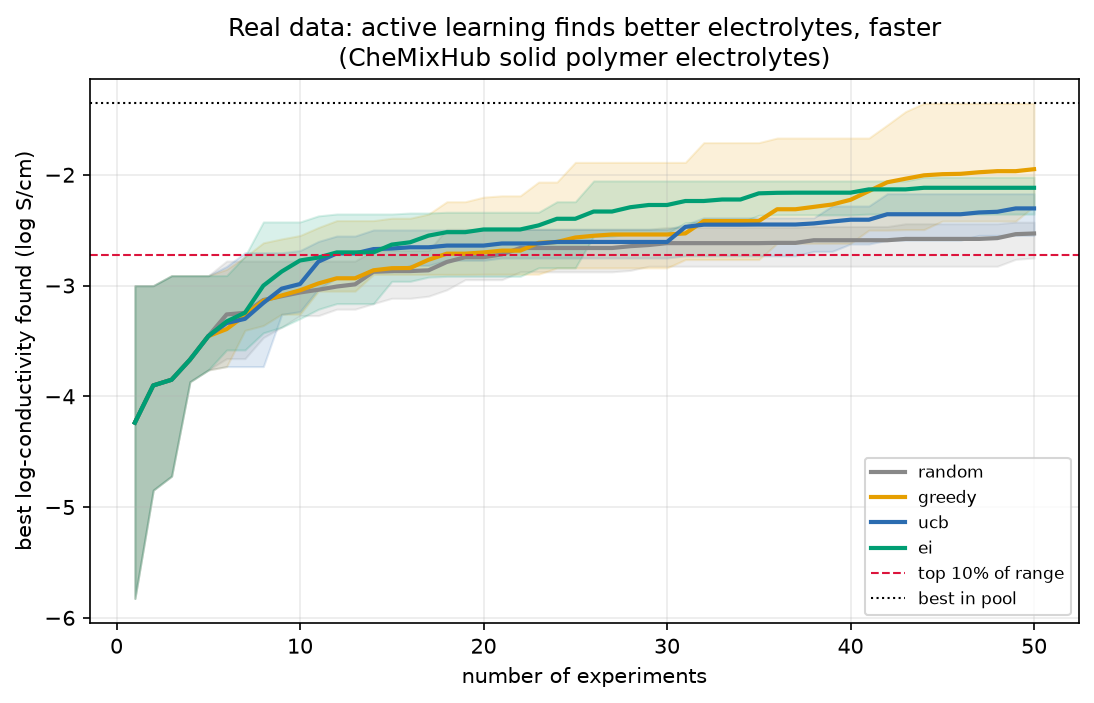
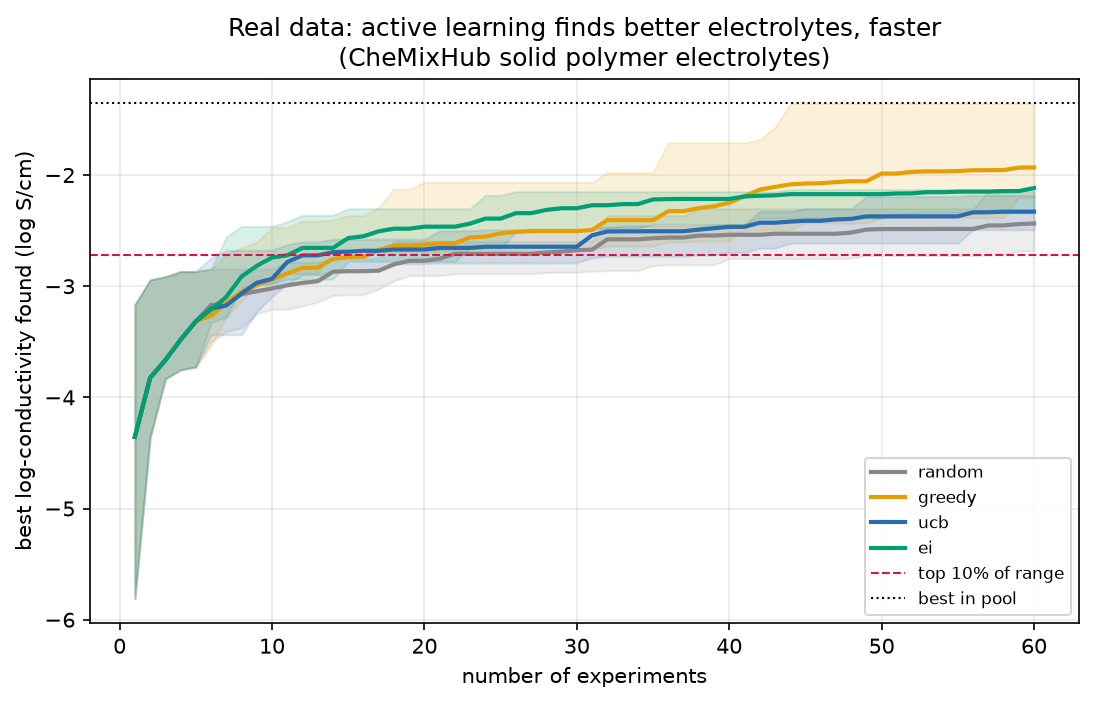
Audit: align SPE numbers to the reproducible 20-restart run
The audit re-ran the deterministic 20-restart SPE campaign and got random 30,
EI/greedy ~10, UCB 13 (~3x reduction), vs the README's earlier 28 / ~12 / 2.5x.
Updated the table, prose, and figure to the numbers the documented command
(scripts/run_spe.py --restarts 20) actually produces, so the claim is exactly
reproducible. Direction and magnitude of the result unchanged (AL ~3x fewer
experiments than random). Synthetic-oracle numbers were exact and are untouched.

diff --git a/README.md b/README.md
@@ -21,15 +21,15 @@ On **real, measured data** — 6,949 solid-polymer-electrolyte conductivities
 
 | strategy | experiments to reach the top 10% of conductivity |
 |:---|---:|
-| random screening | 28 |
-| **UCB / EI** (active learning) | **~12** |
+| random screening | 30 |
+| **EI / greedy / UCB** (active learning) | **~10–13** |
 
-**Active learning finds a top-decile electrolyte in ~11–14 experiments; random
-screening needs 28 — a 2.5× reduction on real, literature-measured data.** That's
-the difference between a two-week and a five-week experimental campaign. The gap is
-smaller than on a clean synthetic oracle (below), which is exactly what honest real
-data looks like — noisier surface, less certain surrogate — and reporting it *as*
-2.5× is the point.
+**Active learning finds a top-decile electrolyte in ~10–13 experiments; random
+screening needs 30 — roughly a 3× reduction on real, literature-measured data**
+(median over 20 restarts; `python scripts/run_spe.py --restarts 20`). That's the
+difference between a two-week and a five-week experimental campaign. The gap is
+smaller and noisier than on the clean synthetic oracle (below) — which is exactly
+what honest real data looks like: a rougher surface and a less certain surrogate.
 
 ## Run it
 
